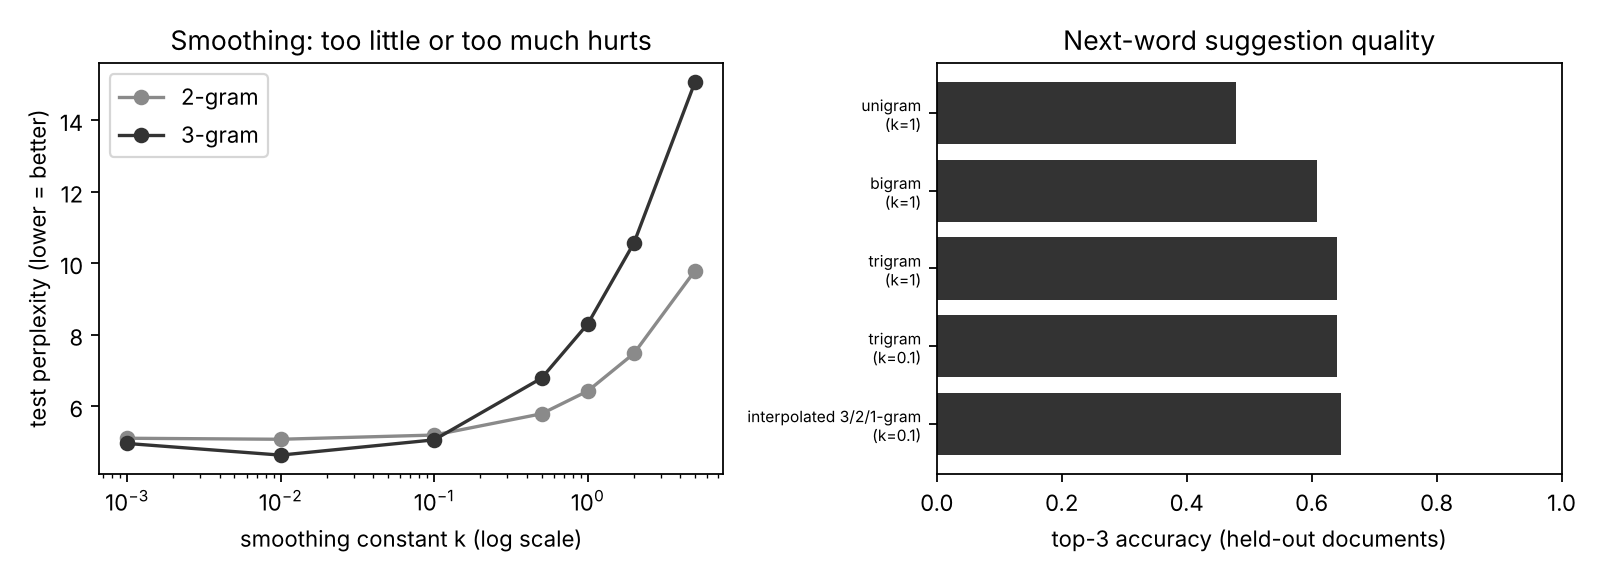
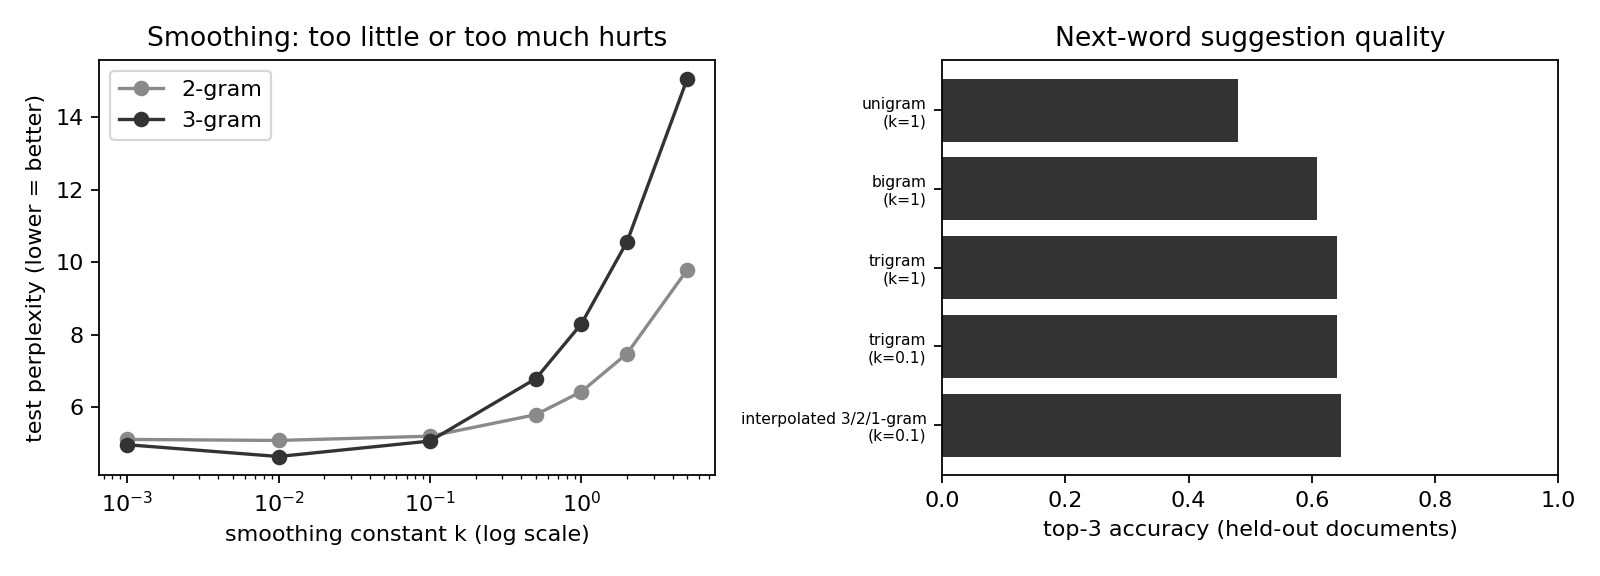
commit ajout lien deployement

diff --git a/README.md b/README.md
@@ -1,0 +1,27 @@
+Fatimazahra massane 
+#  Smart Keyboard V1
+
+[![Streamlit App](https://static.streamlit.io/badges/streamlit_badge_black_white.svg)](https://tp-smart-keybord-v1.streamlit.app/)
+
+** Live Demo :** [https://tp-smart-keybord-v1.streamlit.app/](https://tp-smart-keybord-v1.streamlit.app/)
+
+---
+
+##  Description
+Application de prédiction de mots (Smart Keyboard) basée sur des modèles de langage N-Gram (Unigramme, Bigramme, Trigramme) avec lissage Add-k et mécanisme de back-off.
+
+##  Fonctionnalités
+- Interface interactive construite avec **Streamlit**.
+- Choix dynamique du modèle (N-gram ou Interpolé) et du paramètre de lissage `k`.
+- Suggestions de mots en temps réel avec affichage des probabilités.
+- Module d'évaluation intégré (Perplexité, Précision Top-3).
+
+##  Structure du projet
+```text
+├── app.py                 # Interface utilisateur Streamlit
+├── requirements.txt       # Dépendances du projet
+├── src/
+│   ├── pipeline.py        # Logique des modèles N-Gram et évaluation
+│   └── evaluate.py        # Script d'évaluation et génération de métriques
+├── data/                  # Corpus d'entraînement
+└── results/               # Sorties des évaluations (métriques, graphiques)
